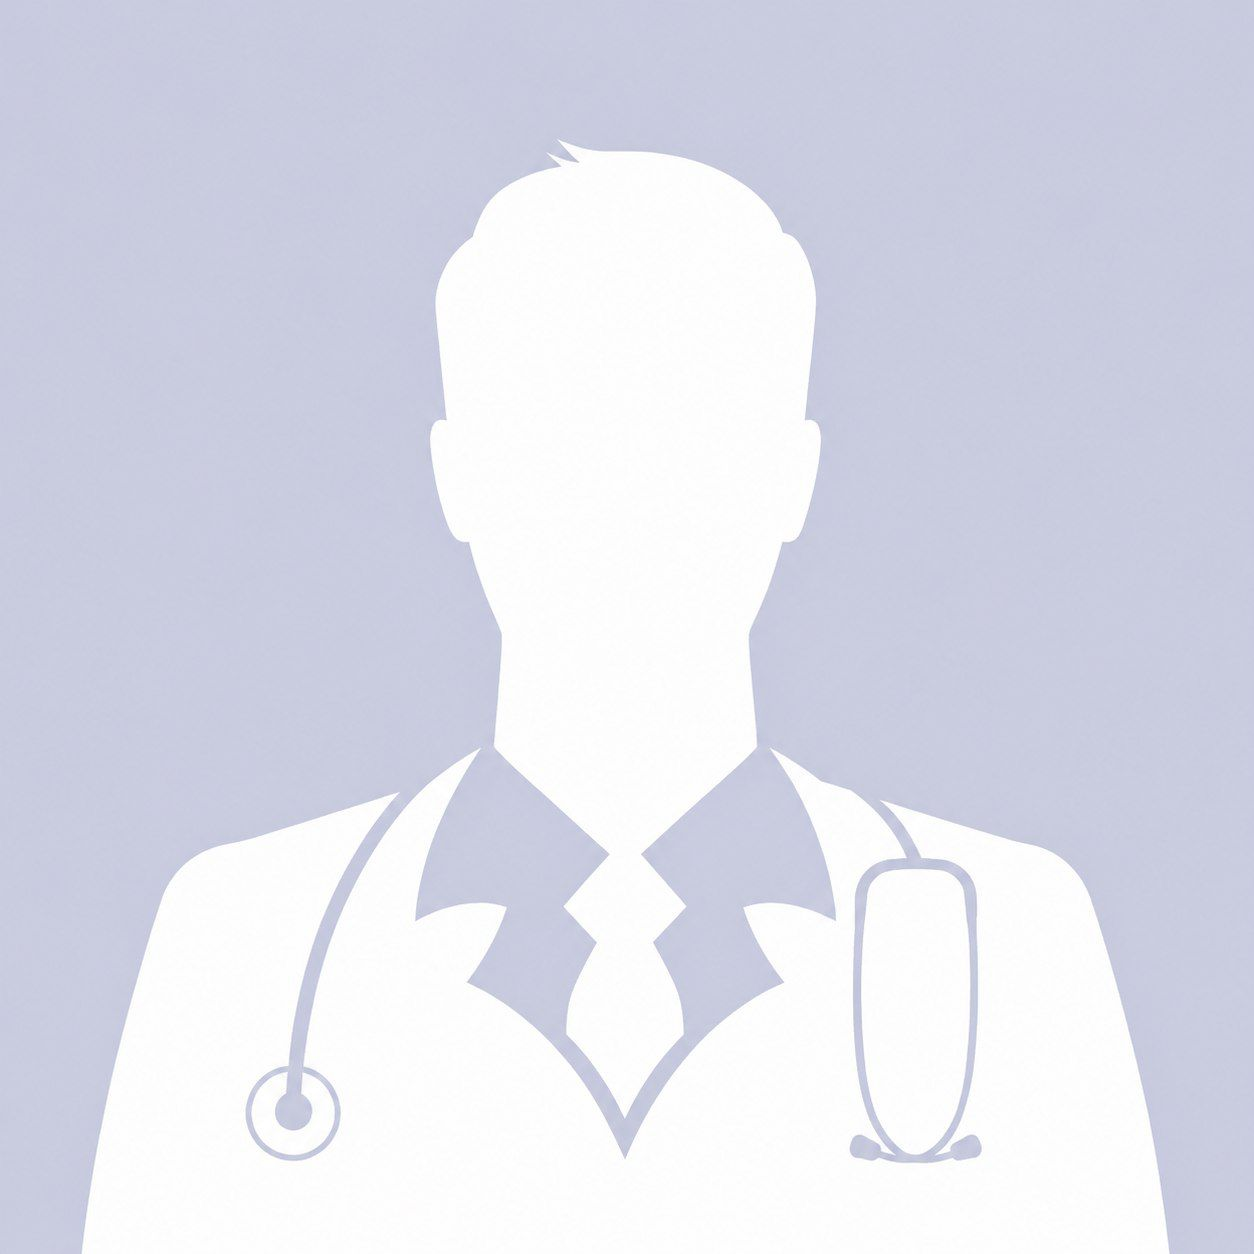
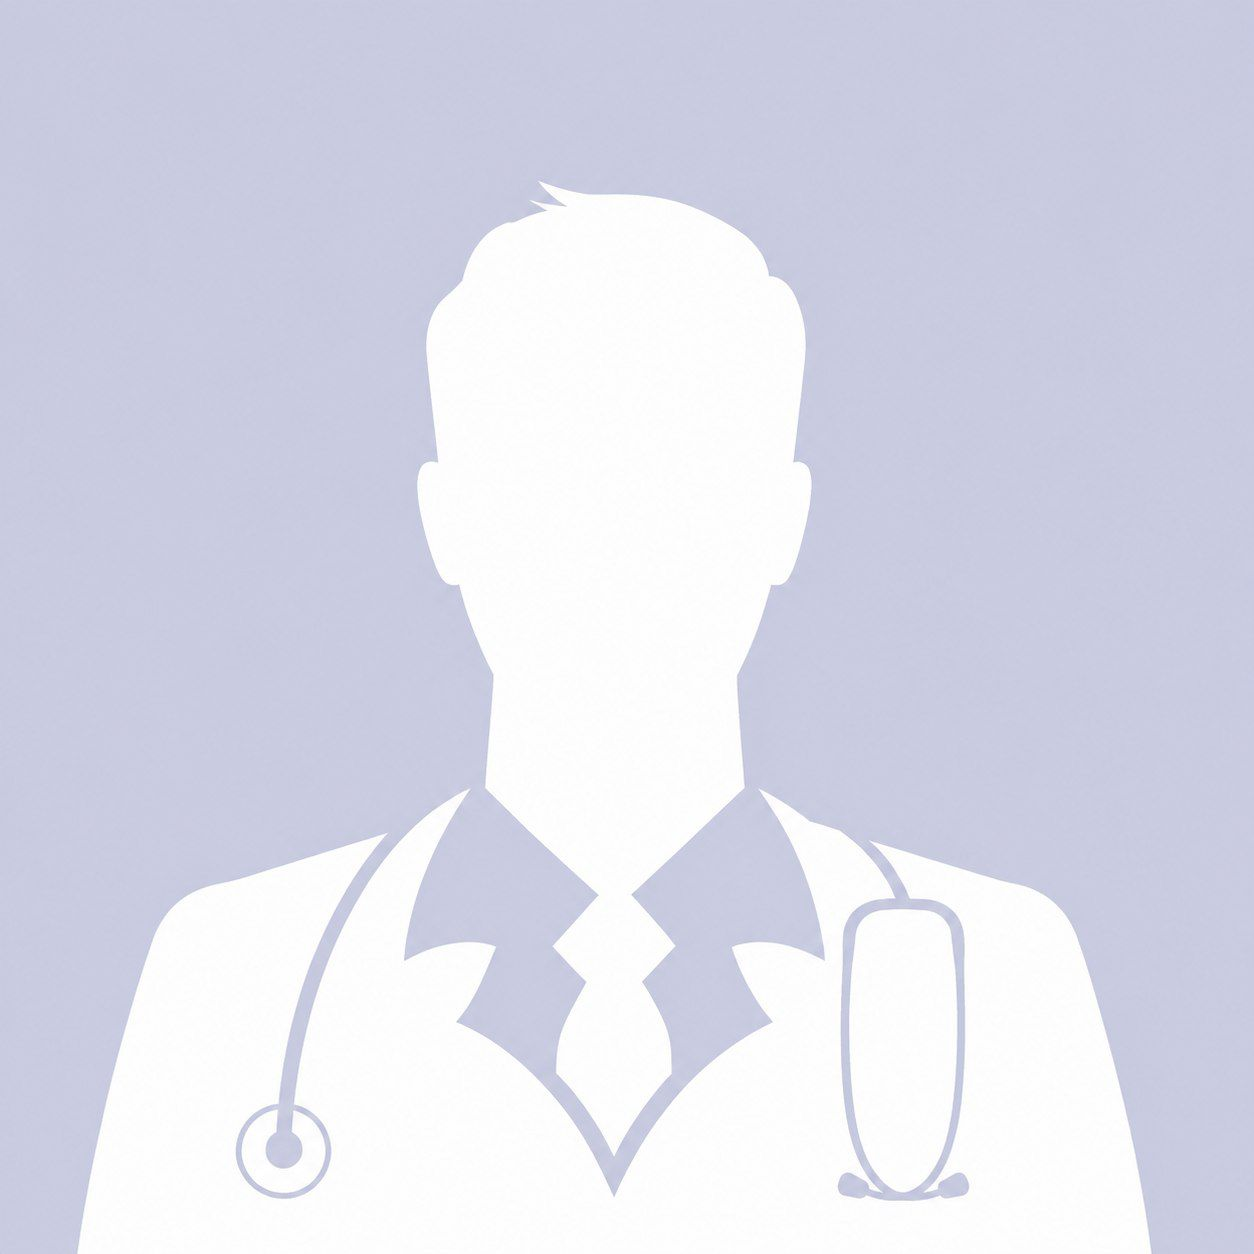
replace doctor default image

Changed region(s): [[0.1244, 0.0933, 0.933, 1.0], [0.1866, 0.8086, 0.2799, 0.9641], [0.0622, 0.9952, 0.0933, 1.0]]

diff --git a/client/src/pages/OurDoctorsPage.jsx b/client/src/pages/OurDoctorsPage.jsx
@@ -437,7 +437,7 @@ export default function OurDoctorsPage() {
                         alt={doctor.name}
                         className={`h-full w-full transition duration-500 group-hover:scale-[1.04] ${
                           doctor.image
-                            ? "object-cover"
+                            ? "object-contain"
                             : "object-cover scale-[1.08]"
                         }`}
                       />